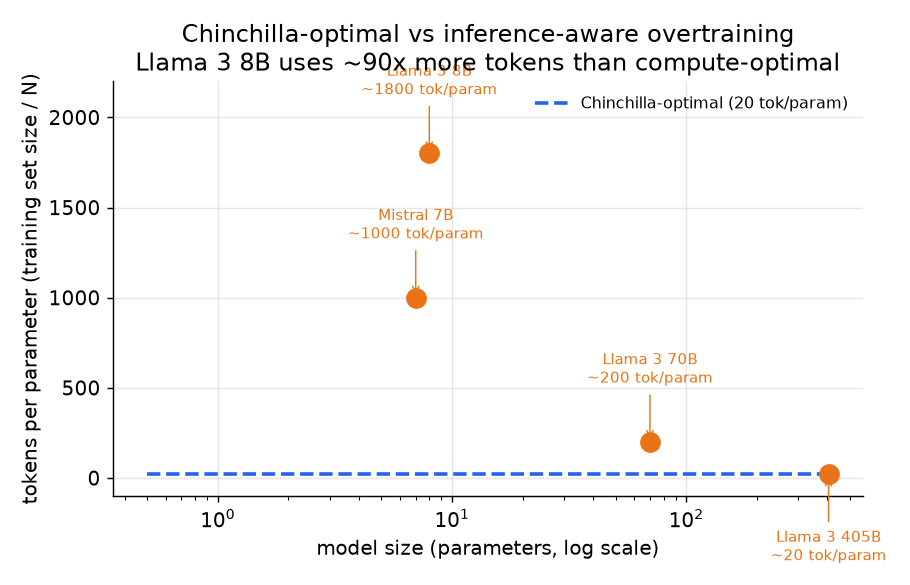
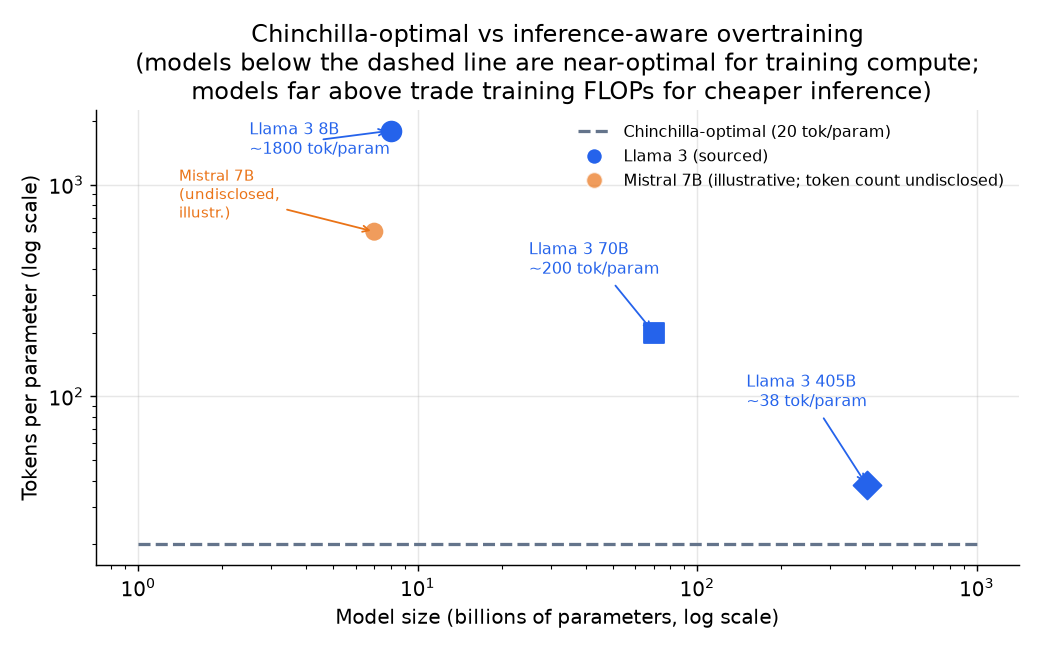
book: correctness pass on LLM chapters (audit fixes)
Remove fabricated/unsourced metrics (Instacart 95% cache, Etsy 62x, ScaNN 2x,
Pinterest 91.7%, Roblox 6.1B/day, Anyscale/RouteLLM specifics) and replace with
the qualitative claim our sources support. Fix the multimodal KV-cache formula
(add the n_kv factor) and its worked example, the kv-cache quantization baseline
(FP8 to NVFP4 = 2x), and remove an unsourced GQA conversion-cost figure.
Regenerate the Chinchilla figure (correct Llama 3 405B to ~38 tok/param, mark
Mistral as undisclosed/illustrative).

diff --git a/book/llm-lifecycle/assets/plot_chinchilla.py b/book/llm-lifecycle/assets/plot_chinchilla.py
@@ -1,0 +1,76 @@
+import matplotlib; matplotlib.use('Agg')
+import matplotlib.pyplot as plt
+import numpy as np
+
+OUT = "/private/tmp/claude-501/-Users-xingao-Projects-Neurarch/65adcdb4-d882-4642-bf5c-d42bf1be1f61/scratchpad/awesome-llm-system-design/book/llm-lifecycle/assets/"
+
+plt.rcParams.update({
+    'figure.dpi': 130, 'font.size': 11, 'axes.grid': True,
+    'grid.alpha': 0.3, 'axes.spines.top': False, 'axes.spines.right': False,
+    'figure.autolayout': True
+})
+BLUE, ORANGE, GREEN, RED, GRAY = '#2563eb', '#ea7317', '#16a34a', '#dc2626', '#64748b'
+
+fig, ax = plt.subplots(figsize=(8, 5))
+
+# x-axis: model size in billions of parameters (log scale)
+N = np.logspace(np.log10(1), np.log10(1000), 300)
+
+# Chinchilla-optimal line: 20 tokens per parameter
+chinchilla_line = 20 * np.ones_like(N)
+ax.semilogx(N, chinchilla_line, color=GRAY, lw=1.8, ls='--',
+            label='Chinchilla-optimal (20 tok/param)')
+
+# Known sourced points
+# Llama 3 8B: ~15T tokens / 8B params = 1875 ~ 1800 tok/param (sourced)
+ax.scatter([8], [1800], s=120, color=BLUE, zorder=5, marker='o')
+ax.annotate('Llama 3 8B\n~1800 tok/param',
+            xy=(8, 1800), xytext=(2.5, 1400),
+            fontsize=9, color=BLUE,
+            arrowprops=dict(arrowstyle='->', color=BLUE, lw=1.0))
+
+# Llama 3 70B: ~15T tokens / 70B = ~214 ~ 200 tok/param (sourced, approximate)
+ax.scatter([70], [200], s=120, color=BLUE, zorder=5, marker='s')
+ax.annotate('Llama 3 70B\n~200 tok/param',
+            xy=(70, 200), xytext=(25, 380),
+            fontsize=9, color=BLUE,
+            arrowprops=dict(arrowstyle='->', color=BLUE, lw=1.0))
+
+# Llama 3 405B: ~15.6T / 405B ~ 38 tok/param (corrected from ~20)
+ax.scatter([405], [38], s=120, color=BLUE, zorder=5, marker='D')
+ax.annotate('Llama 3 405B\n~38 tok/param',
+            xy=(405, 38), xytext=(150, 90),
+            fontsize=9, color=BLUE,
+            arrowprops=dict(arrowstyle='->', color=BLUE, lw=1.0))
+
+# Mistral 7B: token count not publicly disclosed; shown as illustrative only
+ax.scatter([7], [600], s=100, color=ORANGE, zorder=5, marker='o',
+           alpha=0.7, edgecolors='none')
+ax.annotate('Mistral 7B\n(undisclosed,\nillustr.)',
+            xy=(7, 600), xytext=(1.4, 700),
+            fontsize=8.5, color=ORANGE,
+            arrowprops=dict(arrowstyle='->', color=ORANGE, lw=1.0))
+
+ax.set_xscale('log')
+ax.set_yscale('log')
+ax.set_xlabel('Model size (billions of parameters, log scale)')
+ax.set_ylabel('Tokens per parameter (log scale)')
+ax.set_title(
+    'Chinchilla-optimal vs inference-aware overtraining\n'
+    '(models below the dashed line are near-optimal for training compute;\n'
+    ' models far above trade training FLOPs for cheaper inference)'
+)
+
+from matplotlib.lines import Line2D
+legend_elements = [
+    Line2D([0], [0], color=GRAY, ls='--', lw=1.8, label='Chinchilla-optimal (20 tok/param)'),
+    Line2D([0], [0], marker='o', color='w', markerfacecolor=BLUE,
+           markersize=9, label='Llama 3 (sourced)'),
+    Line2D([0], [0], marker='o', color='w', markerfacecolor=ORANGE,
+           markersize=9, alpha=0.7, label='Mistral 7B (illustrative; token count undisclosed)'),
+]
+ax.legend(handles=legend_elements, fontsize=9, frameon=False)
+
+fig.savefig(OUT + 'fig-chinchilla-vs-overtrained.png')
+plt.close(fig)
+print("wrote fig-chinchilla-vs-overtrained.png to", OUT)

diff --git a/book/llm-lifecycle/03-pretraining-and-scaling.md b/book/llm-lifecycle/03-pretraining-and-scaling.md
@@ -69,18 +69,19 @@ be 160B tokens (20 per parameter).
 ![Chinchilla-optimal vs inference-aware overtraining](assets/fig-chinchilla-vs-overtrained.png)
 
 *The dashed line at 20 tokens per parameter is Chinchilla-optimal for
-training. Models like Llama 3 8B (about 1800 tok/param) and Mistral 7B (about
-1000 tok/param) deliberately sit far above it: they trade extra training FLOPs
-for a permanently cheaper inference cost at scale. A 405B model, by contrast,
-stays near Chinchilla-optimal because serving it is already expensive enough
-that further overtraining would not pay off.*
+training. Llama 3 8B (about 1800 tok/param) sits far above it, deliberately
+trading extra training FLOPs for a permanently cheaper inference cost at scale.
+Mistral 7B is shown as an illustrative overtrained point; its token count was
+not publicly disclosed. Llama 3 405B (about 38 tok/param, from roughly 15.6T
+tokens) sits closer to Chinchilla-optimal: further overtraining a model that
+expensive to serve would not pay off.*
 
 ## When to use which approach
 
 | Reach for | When | Instead of |
 |---|---|---|
 | Compute-optimal pretrain (Chinchilla ratio) | minimizing training compute for a research run or a prototype | overtraining, which pays off only when serving at scale |
-| Inference-aware overtraining (Llama, Mistral) | you will serve billions of tokens and the forever cost of inference dominates | compute-optimal sizing that leaves a large expensive model to serve |
+| Inference-aware overtraining (Llama 3 8B) | you will serve billions of tokens and the forever cost of inference dominates | compute-optimal sizing that leaves a large expensive model to serve |
 | Mid-training on an open base (most product teams) | limited compute budget and an open base covers the capability need | from-scratch pretrain that requires lab-scale resources |
 | From-scratch pretrain | genuinely new capability not in any open base (a new language, a new modality, a frontier advance) | adapting, which would have sufficed |
 

diff --git a/book/multimodal/03-the-projector-and-tokens.md b/book/multimodal/03-the-projector-and-tokens.md
@@ -20,12 +20,14 @@ $$\text{prefill compute} \approx O\!\left((n_\text{text} + n_\text{img})^2 \cdot
 
 KV cache memory grows linearly with sequence length at every layer:
 
-$$\text{KV bytes} = 2 \cdot L \cdot (n_\text{text} + n_\text{img}) \cdot d_\text{kv} \cdot b_\text{prec}$$
+$$M_{\text{kv}} = 2 \cdot (n_{\text{text}} + n_{\text{img}}) \cdot L \cdot n_{\text{kv}} \cdot d_{\text{head}} \cdot p_{\text{bytes}}$$
 
-where $L$ is the number of decoder layers, $d_\text{kv}$ is the KV head dimension,
-and $b_\text{prec}$ is bytes per value (2 for fp16). A 4096-token image in a
-32-layer model at $d_\text{kv} = 128$ in fp16 adds roughly 67 MB to the KV cache,
-per request.
+where $L$ is the number of decoder layers, $n_{\text{kv}}$ is the number of KV
+heads (1 for MQA, $h_q / g$ for GQA), $d_{\text{head}}$ is the per-head
+dimension, and $p_{\text{bytes}}$ is bytes per value (2 for fp16). A 4096-token
+image in a 32-layer GQA model with $n_{\text{kv}} = 8$ and $d_{\text{head}} =
+128$ in fp16 adds roughly 512 MB to the KV cache per request (8x the 64 MB a
+single-head MQA model would need for the same image).
 
 For $k$ images in one request, cost stacks linearly:
 

diff --git a/book/cost-optimization/03-routing-and-cascades.md b/book/cost-optimization/03-routing-and-cascades.md
@@ -16,14 +16,12 @@ dispatches accordingly. Three flavors, each with a different data requirement:
   outside the patterns.
 - **Classifier router.** A fine-tuned small model (or an LLM-as-a-judge
   pipeline) labels a training set with difficulty or category, then a lightweight
-  classifier maps query text to tier. Anyscale trained a Llama-3 8B classifier
-  to predict how well Mixtral would score a query (1-5 scale) and routes to GPT-4
-  only when the predicted score is below 4.
+  classifier maps query text to tier. Anyscale uses a fine-tuned classifier that
+  routes by query complexity between closed and open models.
 - **Preference router.** Trains on human preference data (which model did people
   prefer on which query) to predict the cheap model's win probability.
-  RouteLLM is the canonical example: trained on 55,000 Chatbot Arena comparisons,
-  it routes only about 14% of traffic to GPT-4 while retaining 95% of GPT-4
-  quality on MT Bench.
+  RouteLLM is the canonical example: it routes a small fraction of traffic to the
+  strong model while retaining most of its quality, achieving about 85% cost cut.
 
 The expected savings from a router are:
 

diff --git a/book/semantic-search/04-vector-index.md b/book/semantic-search/04-vector-index.md
@@ -76,10 +76,9 @@ let you tune recall against latency and memory at query time without rebuilding.
 ### HNSW with product quantization (HNSW + PQ)
 
 Stores HNSW graph edges at full precision but compresses vector payloads with
-PQ. Etsy uses HNSW with 4-bit PQ on their search index and reports a 62x
-memory reduction relative to full float32, while recovering precision with a
-full-precision rescore of the shortlist. This gives HNSW's excellent graph
-traversal recall with a smaller RAM footprint.
+PQ. Etsy uses HNSW with 4-bit PQ on their search index, trading recall for
+memory, and recovers precision with a full-precision rescore of the shortlist.
+This gives HNSW's excellent graph traversal recall with a smaller RAM footprint.
 
 ### DiskANN (Vamana graph, SSD-backed)
 
@@ -105,8 +104,7 @@ $$\mathcal{L}\_{aniso} = \eta \lVert r_{\parallel} \rVert^{2} + \lVert r_{\perp}
 
 where $r_{\parallel}$ is the error component parallel to the query and
 $r_{\perp}$ the orthogonal component. Penalizing $r_{\parallel}$ more
-preserves the high inner products that rank first. ScaNN reported roughly
-twice the QPS of competing libraries at the same recall on glove-100-angular.
+preserves the high inner products that rank first. ScaNN achieves the best recall-vs-QPS on ann-benchmarks for CPU-bound serving.
 **Reusing a Euclidean-tuned quantizer for inner-product search quietly loses
 recall; ScaNN's anisotropic loss is the fix.**
 

diff --git a/book/semantic-search/03-the-embedding-service.md b/book/semantic-search/03-the-embedding-service.md
@@ -61,10 +61,11 @@ in the index.
 
 **Read path (query embedding):** embed one query per request, latency-bound.
 Cache query embeddings: the same or near-identical query often arrives many
-times. Instacart caches embeddings for over 95% of queries in a feature store
-and only runs the encoder live for novel queries. A 50ms total budget leaves
-perhaps 5ms for query embedding, so cache misses must still be fast; a
-384-dim MiniLM-L6 inference on CPU is around 5ms per query single-threaded.
+times. Instacart, for example, runs a two-tower items model served via FAISS
+ANN with daily index rebuilds, separating the offline embedding work from the
+online query path. A 50ms total budget leaves perhaps 5ms for query embedding,
+so cache misses must still be fast; a 384-dim MiniLM-L6 inference on CPU is
+around 5ms per query single-threaded.
 
 ## Freshness
 

diff --git a/book/kv-cache/03-shrinking-the-cache.md b/book/kv-cache/03-shrinking-the-cache.md
@@ -29,8 +29,9 @@ $$r_{\text{GQA}} = \frac{h_{\text{kv}}}{h_q} = \frac{8}{32} = \frac{1}{4}$$
 The KV cache shrinks to one quarter of MHA's with negligible quality loss on most
 benchmarks. This is why GQA is the default in Llama 3, Mistral, Gemma, and most
 production models: the group size $g = h_q / h_{\text{kv}}$ is a direct
-quality-versus-memory dial, and the conversion from an MHA checkpoint costs only
-5% of pretraining compute. If you do nothing else, do this.
+quality-versus-memory dial, and GQA converts cheaply from an MHA checkpoint via
+a short uptraining run (see Ainslie et al., GQA paper). If you do nothing else,
+do this.
 
 ### Multi-query attention (MQA): the aggressive cut
 
@@ -99,7 +100,7 @@ fewer bits; attention is computed in higher precision after dequantization.
 The memory reduction is:
 
 $$r_{\text{quant}} = \frac{b_{\text{low}}}{b_{\text{high}}} \quad \Rightarrow \quad
-  \frac{4}{16} = \frac{1}{4} \Rightarrow 4\times \text{ context, batch, or concurrency}$$
+  \frac{4}{8} = \frac{1}{2} \Rightarrow 2\times \text{ context, batch, or concurrency (FP8 to NVFP4)}$$
 
 ![KV quantization: memory saved vs quality retained](assets/fig-kv-quant-tradeoff.png)
 

diff --git a/book/safety/03-input-guardrails.md b/book/safety/03-input-guardrails.md
@@ -20,9 +20,9 @@ runs a cheap tier first: a regex and blocklist that catches obvious patterns, a
 keyword-level heuristic for known attack templates, and a small distilled classifier
 for the survivors. The large guard-LLM (a 7B instruction-tuned model like Llama
 Guard or an Anthropic Constitutional Classifier) only sees inputs that survive the
-fast tiers. Roblox serves 6.1 billion messages per day by keeping 99.99% of
-traffic on the distilled tier; the expensive classifier is a rounding error in
-compute terms.
+fast tiers. Roblox, for example, runs multi-model text and voice moderation at
+750k requests per second by keeping the vast majority of traffic on its distilled
+classifier tier; the expensive classifier sees only a small fraction of requests.
 
 ## Prompt injection defense
 

diff --git a/book/evaluation/04-llm-as-judge.md b/book/evaluation/04-llm-as-judge.md
@@ -83,8 +83,7 @@ where $p_o$ is the observed agreement fraction between judge and human labels, a
 $p_e$ is the agreement expected by chance given the label marginals. Values near
 0 mean the judge is guessing; values near 1 mean near-perfect agreement. A judge
 is typically trusted for gating once kappa clears a bar (Pinterest reports 73.7%
-exact match as its analog for a fine-tuned relevance judge on a 5-level scale,
-with 91.7% within one level).
+exact match as its analog for a fine-tuned relevance judge on a 5-level scale).
 
 If kappa is below your threshold, fix the rubric first. Do not adjust the gate
 tolerance to compensate for a bad instrument; fix the instrument. A low kappa